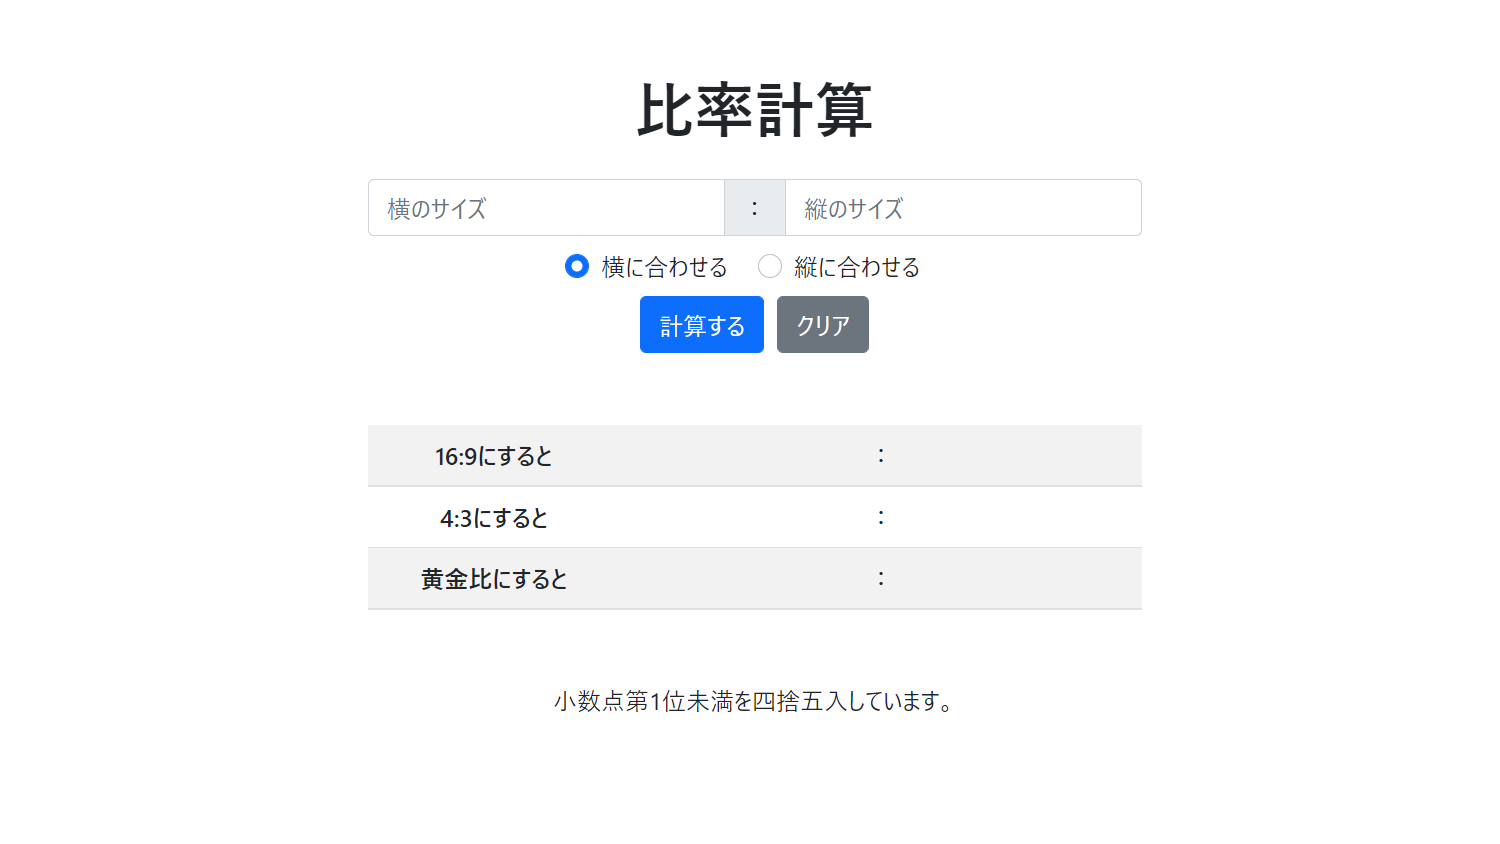
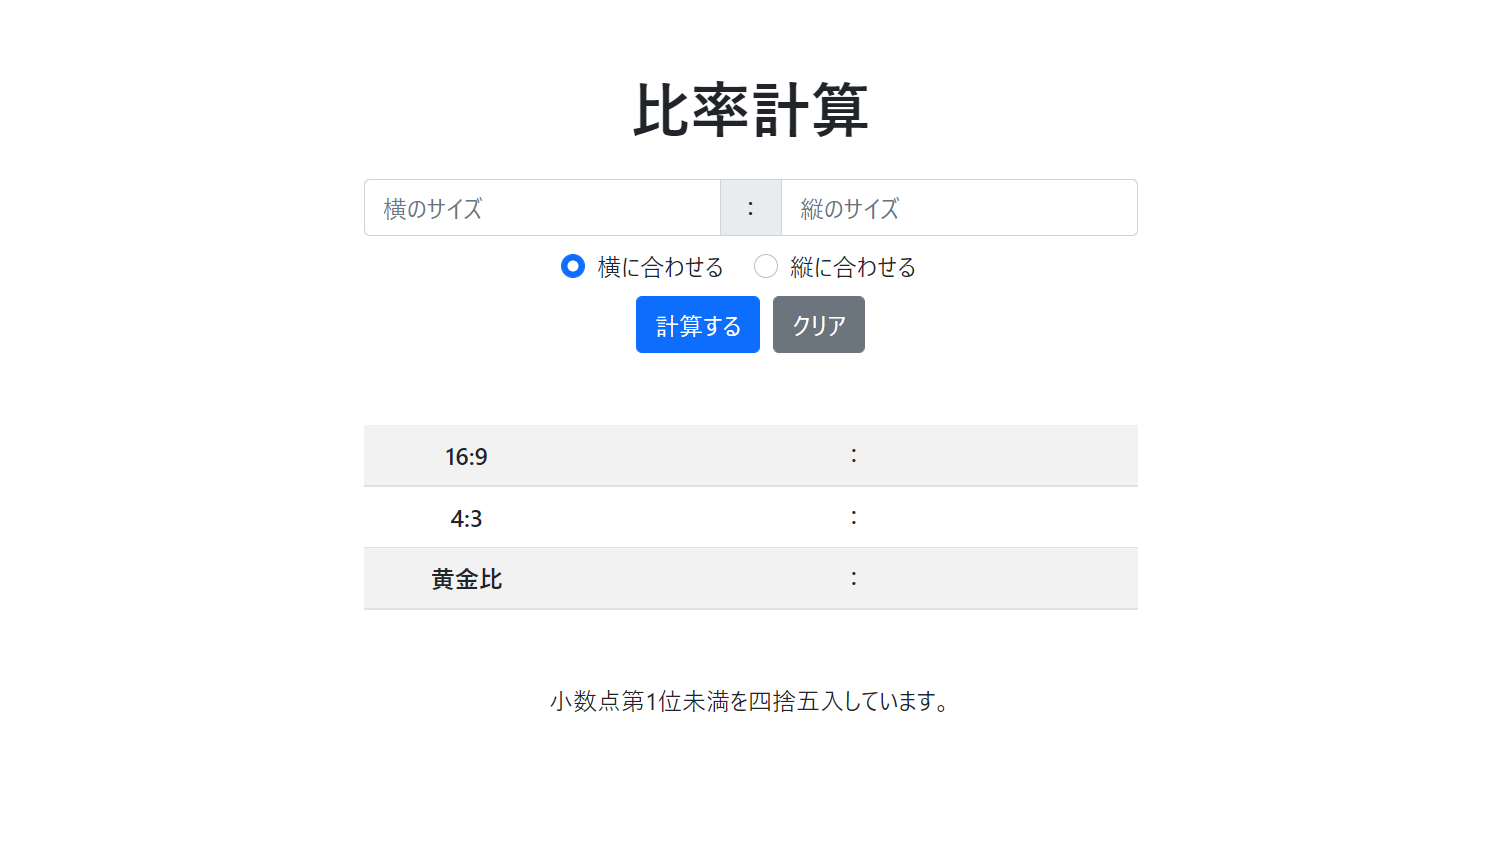
スマホ向け表示を改善

diff --git a/index.html b/index.html
@@ -6,7 +6,7 @@
     <link href="https://cdn.jsdelivr.net/npm/bootstrap@5.0.2/dist/css/bootstrap.min.css" rel="stylesheet" integrity="sha384-EVSTQN3/azprG1Anm3QDgpJLIm9Nao0Yz1ztcQTwFspd3yD65VohhpuuCOmLASjC" crossorigin="anonymous">
     <style type="text/css">
       .container { max-width: 540px; }
-      td:nth-of-type(odd) { width: 150px; }
+      td:nth-of-type(odd) { width: 30%; }
     </style>
     <title>比率計算</title>
   </head>
@@ -35,19 +35,19 @@
       <table class="table table-striped mb-5">
         <tbody>
           <tr>
-            <th scope="row">16:9にすると</th>
+            <th scope="row">16:9</th>
             <td id="wRatio1"></td>
             <td>：</td>
             <td id="hRatio1"></td>
           </tr>
           <tr>
-            <th scope="row">4:3にすると</th>
+            <th scope="row">4:3</th>
             <td id="wRatio2"></td>
             <td>：</td>
             <td id="hRatio2"></td>
           </tr>
           <tr>
-            <th scope="row">黄金比にすると</th>
+            <th scope="row">黄金比</th>
             <td id="wRatio3"></td>
             <td>：</td>
             <td id="hRatio3"></td>
